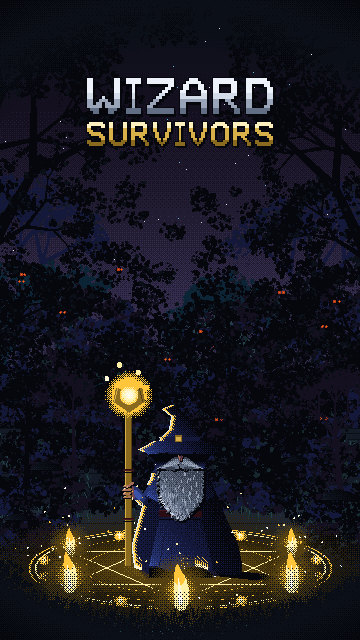
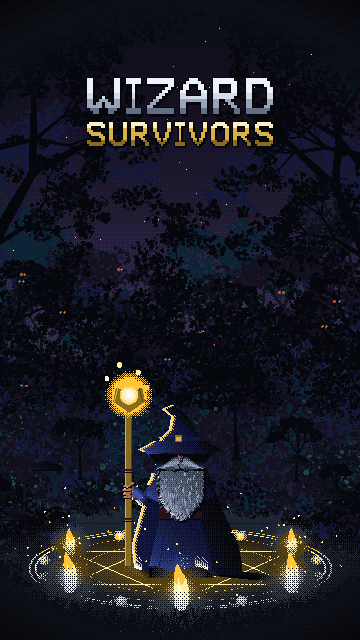
art: give the wood a depth gradient, tall behind and low in front
Size and tone both now vary with distance through the creep band. Clumps
run 26 units across and nearly as tall at the treeline down to 5 across
and a fifth as tall by the time they reach him, so the far mass stands up
and the near scrub hugs the ground. Far trees are scaled 1.24 and the leaf
mass reaches higher, so the back wall is taller than it was.

Size alone was not enough - the first attempt had it and still read flat.
A clump at the treeline drawn from the same near-blacks as one at his feet
reads as the same distance away however small it is, and the creep was
using one pool at every depth. It picks by depth now: FAR_TONES for the
back third, NEAR_TONES for the middle, and a new FLOOR_TONES of flat
occlusion for the last stretch, so the nearest plane is the one thing in
the frame that gets no light at all.

Backed the fill off again as well. The first pass took fscale to 1.42 and
ran the leaf mass from y=244, which closed the sky completely - and the
sky is what the far trees are silhouetted against, so filling it removed
the depth the rest of the change was trying to add.

diff --git a/tools/art/splash.py b/tools/art/splash.py
@@ -107,6 +107,10 @@ def vigil(beard="mane-spear", ward=None, ground=None, wood="thicket"):
                  (M["violet"][4], M["stone"][3]), (M["arcane"][4], M["stone"][3])]
     NEAR_TONES = [(OCC, M["stone"][4]), (OCC, M["violet"][4]), (M["violet"][4], M["stone"][4]),
                   (OCC, M["lichen"][4]), (M["wool"][4], M["stone"][4]), (OCC, M["stone"][4])]
+    # The last few units before the ward. Flat silhouette, no lit face at all - the nearest
+    # plane in the frame is the one thing that gets no light, which is what pushes it in front
+    # of everything else.
+    FLOOR_TONES = [(OCC, OCC), (OCC, OCC), (OCC, M["stone"][4]), (M["violet"][4], OCC)]
 
     WOODS = {
         "current": dict(under=120, ur=(5, 17), uy=(414, 26), ud=1.2,
@@ -114,22 +118,26 @@ def vigil(beard="mane-spear", ward=None, ground=None, wood="thicket"):
                         roots=0, rank=0, side=90, side_in=128, canopy_d=1.25,
                         near=[(-14, 470, 176, 71), (378, 442, 164, 83)],
                         vary=False, creep=0, reach=0, saplings=[],
-                        cedge=0.55, cnear=64, cfar=148, keep=(172, 84, 570), cbias=0.6),
-        "thicket": dict(under=430, ur=(9, 28), uy=(384, 46), ud=1.75,
-                        leaf=340, lr=(8, 25), ly=(292, 156),
-                        roots=250, rank=0, side=150, side_in=116, canopy_d=1.32,
+                        cedge=0.55, cnear=64, cfar=148, keep=(172, 84, 570), cbias=0.6,
+                        fscale=1.0, uh=0.5, lh=0.62, crad=(13, 13), csq=(0.55, 0.55)),
+        "thicket": dict(under=360, ur=(11, 30), uy=(378, 48), ud=1.7,
+                        leaf=250, lr=(10, 29), ly=(302, 142),
+                        roots=195, rank=0, side=150, side_in=116, canopy_d=1.28,
                         near=[(-14, 470, 176, 71), (378, 442, 164, 83)],
                         vary=True, creep=560, reach=176,
                         cedge=1.0, cnear=152, cfar=74, keep=(168, 70, 572), cbias=1.9,
-                        saplings=[(26, 486, 112, 68, 211), (74, 470, 92, 56, 223),
-                                  (124, 458, 76, 46, 251), (238, 464, 84, 52, 257),
-                                  (292, 478, 100, 60, 263), (340, 492, 118, 72, 269)]),
+                        fscale=1.24, uh=0.78, lh=0.92, crad=(26, 5), csq=(0.95, 0.22),
+                        # short at the front, taller the further back they stand
+                        saplings=[(24, 500, 40, 26, 211), (80, 478, 60, 38, 223),
+                                  (128, 456, 92, 56, 251), (236, 458, 88, 54, 257),
+                                  (296, 480, 56, 36, 263), (338, 502, 38, 24, 269)]),
         "rank": dict(under=210, ur=(7, 21), uy=(404, 32), ud=1.45,
                      leaf=200, lr=(7, 22), ly=(298, 146),
                      roots=95, rank=11, side=100, side_in=126, canopy_d=1.25,
                      near=[(-14, 470, 176, 71), (378, 442, 164, 83)],
                      vary=True, creep=115, reach=84,
                      cedge=0.55, cnear=64, cfar=148, keep=(172, 84, 570), cbias=0.6,
+                     fscale=1.0, uh=0.5, lh=0.62, crad=(13, 13), csq=(0.55, 0.55),
                      saplings=[(42, 458, 84, 52, 227), (320, 472, 92, 56, 229)]),
         "walls": dict(under=180, ur=(6, 19), uy=(400, 34), ud=1.35,
                       leaf=205, lr=(7, 21), ly=(298, 146),
@@ -138,6 +146,7 @@ def vigil(beard="mane-spear", ward=None, ground=None, wood="thicket"):
                             (-34, 424, 150, 91), (400, 404, 142, 97)],
                       vary=True, creep=185, reach=116,
                       cedge=0.55, cnear=64, cfar=148, keep=(172, 84, 570), cbias=0.6,
+                      fscale=1.0, uh=0.5, lh=0.62, crad=(13, 13), csq=(0.55, 0.55),
                       saplings=[(36, 480, 104, 62, 233), (328, 488, 98, 58, 239),
                                 (86, 452, 66, 40, 241)]),
     }
@@ -167,7 +176,8 @@ def vigil(beard="mane-spear", ward=None, ground=None, wood="thicket"):
            (232, 156, 82, 89), (94, 140, 76, 97)]
     for (tx, th, sp, sd) in sorted(far, key=lambda t: -t[1]):
         td, tl = tone(FAR_TONES, (M["stone"][4], M["stone"][3]))
-        sk.tree(c, tx, 436, th, sp, seed=sd, dark=td, light=tl, density=2.2)
+        sk.tree(c, tx, 436, th * wd["fscale"], sp * wd["fscale"], seed=sd,
+                dark=td, light=tl, density=2.2)
     # A second rank, nearer and a step darker, standing on a lower baseline so it reads as
     # in front of the first. Trunks are what close a sightline; leaves only muffle it.
     for i in range(wd["rank"]):
@@ -184,7 +194,7 @@ def vigil(beard="mane-spear", ward=None, ground=None, wood="thicket"):
         by = wd["uy"][0] + rb.randrange(0, wd["uy"][1])
         br = rb.randrange(*wd["ur"])
         td, tl = tone(FAR_TONES, (M["stone"][4], M["stone"][3]))
-        sk.brush(c, bx, by, br, br * 0.5, seed=rb.randrange(9999),
+        sk.brush(c, bx, by, br, br * wd["uh"], seed=rb.randrange(9999),
                  dark=td, light=tl, density=wd["ud"])
     # Near-black at the very bottom of the trunks, on top of the lit undergrowth. This is
     # what makes the wood read as having no floor you could walk out across.
@@ -202,7 +212,7 @@ def vigil(beard="mane-spear", ward=None, ground=None, wood="thicket"):
         by = wd["ly"][0] + int(rb.random() ** 0.7 * wd["ly"][1])
         br = rb.randrange(*wd["lr"])
         td, tl = tone(NEAR_TONES, (OCC, M["stone"][4]))
-        sk.brush(c, bx, by, br, br * 0.62, seed=rb.randrange(9999),
+        sk.brush(c, bx, by, br, br * wd["lh"], seed=rb.randrange(9999),
                  dark=td, light=tl, density=1.15)
     eyes_in_the_dark(c, 330, 450, 9, 5,
                      [E["fire"][2], E["fire"][3], E["fire"][3], None])
@@ -272,9 +282,27 @@ def vigil(beard="mane-spear", ward=None, ground=None, wood="thicket"):
         ex, ey, ec = wd["keep"]
         if ((gx - 180) / float(ex)) ** 2 + ((gy2 - ec) / float(ey)) ** 2 < 1.0:
             continue                               # the ward keeps its clearance
-        br = rg.randrange(6, 21)
-        td, tl = tone(NEAR_TONES, (OCC, M["stone"][4]))
-        sk.brush(c, gx, gy2, br, br * 0.55, seed=rg.randrange(9999),
+        # Big and standing up at the treeline, small and lying flat by the time it reaches
+        # him. This is the whole depth cue: a band of same-sized clumps from the wood to the
+        # ward reads as gravel however many of them there are, because nothing in it tells the
+        # eye which end is further away. Size does that, and the height-to-width ratio does it
+        # again - far mass stands up, near scrub hugs the ground.
+        fr, nr = wd["crad"]
+        fs, ns = wd["csq"]
+        br = int((fr + (nr - fr) * t) * (0.72 + rg.random() * 0.56))
+        sq = fs + (ns - fs) * t
+        # ...and its POOL by depth as well. Size alone is not enough: a clump at the treeline
+        # drawn from the same near-blacks as one at his feet reads as the same distance away
+        # however small it is. Far mass gets the lighter, cooler pool, the middle gets the
+        # near one, and the last stretch is flat occlusion.
+        if t < 0.30 + rg.random() * 0.16:
+            pool = FAR_TONES
+        elif t < 0.70 + rg.random() * 0.12:
+            pool = NEAR_TONES
+        else:
+            pool = FLOOR_TONES
+        td, tl = tone(pool, (OCC, M["stone"][4]))
+        sk.brush(c, gx, gy2, br, max(2, br * sq), seed=rg.randrange(9999),
                  dark=td, light=tl, density=1.4)
     # and a few saplings actually rooted on the grass, so the encroachment has stems in it
     for (sx0, sy0, sh, ssp, ssd) in wd["saplings"]:
